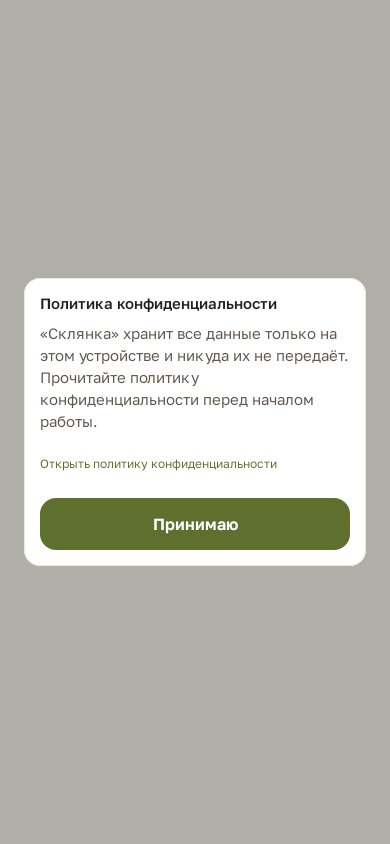
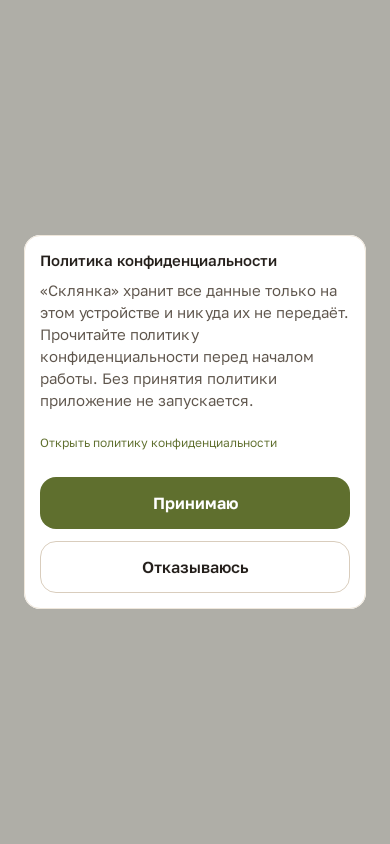
fix(SKL-161): offer an explicit decline in the privacy prompt

Changed region(s): [[0.0615, 0.2773, 0.9538, 0.7393]]

diff --git a/app/src/main/kotlin/ru/stohastika/sklyanka/startup/PrivacyConsentDialog.kt b/app/src/main/kotlin/ru/stohastika/sklyanka/startup/PrivacyConsentDialog.kt
@@ -19,7 +19,9 @@ import androidx.compose.ui.window.Dialog
 import androidx.compose.ui.window.DialogProperties
 import ru.stohastika.sklyanka.R
 import ru.stohastika.sklyanka.ui.component.AppDialogScrim
+import ru.stohastika.sklyanka.ui.component.ButtonForm
 import ru.stohastika.sklyanka.ui.component.PrimaryButton
+import ru.stohastika.sklyanka.ui.component.SecondaryButton
 import ru.stohastika.sklyanka.ui.modifier.minTouchTarget
 import ru.stohastika.sklyanka.ui.theme.SklyankaTheme
 import ru.stohastika.sklyanka.ui.token.SklyankaShapes
@@ -34,20 +36,29 @@ import ru.stohastika.sklyanka.ui.token.SklyankaType
  * у продукта нет, поэтому страницы входа, на которой это можно было бы показать, тоже нет.
  * Отсюда единственная поверхность — диалог поверх первого экрана.
  *
- * **Закрыть его можно только кнопкой «Принимаю».** Системная «Назад» и тап вне окна
- * не закрывают диалог: иначе замечание проверки «нет явного согласия» осталось бы в силе,
- * а человек мог бы проскочить предложение, не прочитав его. Затемнение и фон окна —
- * роли дизайн-системы, а не чёрная подложка прошивки (`AppDialogScrim`).
+ * **Согласие или отказ, без обхода.** Системная «Назад» и тап вне окна не закрывают
+ * диалог: иначе замечание проверки «нет явного согласия» осталось бы в силе, а человек
+ * мог бы проскочить предложение, не прочитав его. В диалоге два действия: «Принимаю»
+ * записывает факт и открывает приложение, «Отказываюсь» закрывает его, не записывая
+ * ничего (Р-90). При следующем запуске отказник снова видит диалог — отказа нет.
+ * Затемнение и фон окна — роли дизайн-системы, а не чёрная подложка прошивки
+ * (`AppDialogScrim`).
  *
- * Ссылка — не второе действие: она открывает тот же документ, что и строка настроек,
+ * Ссылка — не действие согласия: она открывает тот же документ, что и строка настроек,
  * и не снимает диалог. Адрес и браузер остаются у `app` (`PolicyPage`), поэтому диалог
  * не знает ни URL, ни `Intent`.
  *
  * @param onOpenPolicy открыть политику; диалог остаётся на экране.
  * @param onAgree человек принял политику — записать факт и снять диалог.
+ * @param onDecline человек отказался — закрыть приложение, ничего не записывая.
  */
 @Composable
-fun PrivacyConsentDialog(onOpenPolicy: () -> Unit, onAgree: () -> Unit, modifier: Modifier = Modifier) {
+fun PrivacyConsentDialog(
+    onOpenPolicy: () -> Unit,
+    onAgree: () -> Unit,
+    onDecline: () -> Unit,
+    modifier: Modifier = Modifier,
+) {
     Dialog(
         // Пустой обработчик, а не закрытие: диалог не закрывается ничем, кроме кнопки.
         onDismissRequest = { },
@@ -62,15 +73,21 @@ fun PrivacyConsentDialog(onOpenPolicy: () -> Unit, onAgree: () -> Unit, modifier
             PrivacySurface(
                 onOpenPolicy = onOpenPolicy,
                 onAgree = onAgree,
+                onDecline = onDecline,
                 modifier = modifier,
             )
         }
     }
 }
 
-/** Поверхность диалога: заголовок, честное объяснение, ссылка и единственное действие. */
+/** Поверхность диалога: заголовок, объяснение, ссылка, согласие и явный отказ. */
 @Composable
-private fun PrivacySurface(onOpenPolicy: () -> Unit, onAgree: () -> Unit, modifier: Modifier = Modifier) {
+private fun PrivacySurface(
+    onOpenPolicy: () -> Unit,
+    onAgree: () -> Unit,
+    onDecline: () -> Unit,
+    modifier: Modifier = Modifier,
+) {
     val colors = SklyankaTheme.colors
     Surface(
         modifier = modifier
@@ -113,6 +130,14 @@ private fun PrivacySurface(onOpenPolicy: () -> Unit, onAgree: () -> Unit, modifi
                     .fillMaxWidth()
                     .testTag(TAG_PRIVACY_CONSENT_AGREE),
             )
+            SecondaryButton(
+                text = stringResource(R.string.privacy_consent_decline),
+                onClick = onDecline,
+                form = ButtonForm.Screen,
+                modifier = Modifier
+                    .fillMaxWidth()
+                    .testTag(TAG_PRIVACY_CONSENT_DECLINE),
+            )
         }
     }
 }
@@ -123,3 +148,4 @@ const val TAG_PRIVACY_CONSENT_TITLE: String = "privacy_consent_title"
 const val TAG_PRIVACY_CONSENT_MESSAGE: String = "privacy_consent_message"
 const val TAG_PRIVACY_CONSENT_POLICY: String = "privacy_consent_policy"
 const val TAG_PRIVACY_CONSENT_AGREE: String = "privacy_consent_agree"
+const val TAG_PRIVACY_CONSENT_DECLINE: String = "privacy_consent_decline"

diff --git a/app/src/testDebug/kotlin/ru/stohastika/sklyanka/startup/PrivacyConsentDialogTest.kt b/app/src/testDebug/kotlin/ru/stohastika/sklyanka/startup/PrivacyConsentDialogTest.kt
@@ -29,12 +29,17 @@ class PrivacyConsentDialogTest {
     private val context = InstrumentationRegistry.getInstrumentation().targetContext
 
     @Test
-    fun theDialogNamesTheDocumentOpensItAndAcceptsIt() {
+    fun theDialogNamesTheDocumentOpensItAndOffersBothActions() {
         var opened = 0
         var agreed = 0
+        var declined = 0
         composeTestRule.setContent {
             SklyankaTheme {
-                PrivacyConsentDialog(onOpenPolicy = { opened++ }, onAgree = { agreed++ })
+                PrivacyConsentDialog(
+                    onOpenPolicy = { opened++ },
+                    onAgree = { agreed++ },
+                    onDecline = { declined++ },
+                )
             }
         }
 
@@ -42,12 +47,17 @@ class PrivacyConsentDialogTest {
         composeTestRule.onNodeWithText(context.getString(R.string.privacy_consent_title)).assertIsDisplayed()
         composeTestRule.onNodeWithText(context.getString(R.string.privacy_consent_message)).assertIsDisplayed()
         composeTestRule.onNodeWithText(context.getString(R.string.privacy_consent_agree)).assertIsDisplayed()
+        composeTestRule.onNodeWithText(context.getString(R.string.privacy_consent_decline)).assertIsDisplayed()
 
         composeTestRule.onNodeWithTag(TAG_PRIVACY_CONSENT_POLICY).performClick()
         assertEquals("the link must open the policy", 1, opened)
         assertEquals("the link must not accept the policy", 0, agreed)
 
+        composeTestRule.onNodeWithTag(TAG_PRIVACY_CONSENT_DECLINE).performClick()
+        assertEquals("decline must be a separate action", 1, declined)
+        assertEquals("decline must not accept the policy", 0, agreed)
+
         composeTestRule.onNodeWithTag(TAG_PRIVACY_CONSENT_AGREE).performClick()
-        assertEquals("the only action accepts the policy", 1, agreed)
+        assertEquals("accept is a separate action", 1, agreed)
     }
 }

diff --git a/app/src/androidTest/kotlin/ru/stohastika/sklyanka/screen/FirstLaunchDeviceTest.kt b/app/src/androidTest/kotlin/ru/stohastika/sklyanka/screen/FirstLaunchDeviceTest.kt
@@ -3,8 +3,10 @@ package ru.stohastika.sklyanka.screen
 import androidx.compose.ui.test.assertIsDisplayed
 import androidx.compose.ui.test.isDialog
 import dagger.hilt.android.testing.HiltAndroidTest
+import org.junit.Assert.assertFalse
 import org.junit.Assert.assertTrue
 import org.junit.Test
+import ru.stohastika.sklyanka.MainActivity
 import ru.stohastika.sklyanka.feature.onboarding.TAG_PERMISSIONS_SCREEN
 import ru.stohastika.sklyanka.feature.onboarding.TAG_SKIP
 import ru.stohastika.sklyanka.feature.today.TAG_TODAY_SCREEN
@@ -12,6 +14,7 @@ import ru.stohastika.sklyanka.screen.support.DeviceActivities
 import ru.stohastika.sklyanka.screen.support.DeviceTestSeed
 import ru.stohastika.sklyanka.startup.TAG_PRIVACY_CONSENT
 import ru.stohastika.sklyanka.startup.TAG_PRIVACY_CONSENT_AGREE
+import ru.stohastika.sklyanka.startup.TAG_PRIVACY_CONSENT_DECLINE
 
 /**
  * N — первый запуск на настоящем устройстве (SKL-97, TDD §8.2; ревизия SKL-100).
@@ -53,5 +56,20 @@ class FirstLaunchDeviceTest : DeviceScreenTest() {
         launchApp()
         waitForTag(TAG_TODAY_SCREEN, ROOT_TIMEOUT_MS).assertIsDisplayed()
         assertTrue("the policy dialog must not return", !exists(TAG_PRIVACY_CONSENT))
+    }
+
+    /** Отказ закрывает приложение и ничего не запоминает (Р-90). */
+    @Test
+    fun thePersonCanDeclineAndTheAppCloses() {
+        launchApp()
+
+        waitForTag(TAG_PRIVACY_CONSENT, ROOT_TIMEOUT_MS).assertIsDisplayed()
+        click(TAG_PRIVACY_CONSENT_DECLINE)
+        awaitScreenClosed(MainActivity::class.java)
+
+        assertFalse(
+            "decline must not be stored",
+            DeviceTestSeed.privacyAcknowledgedFlag(targetContext),
+        )
     }
 }

diff --git a/app/src/main/kotlin/ru/stohastika/sklyanka/MainActivity.kt b/app/src/main/kotlin/ru/stohastika/sklyanka/MainActivity.kt
@@ -407,6 +407,9 @@ class MainActivity : ComponentActivity() {
                         onPrivacyAgree = {
                             acknowledgePrivacy { startupFlags = startupFlags.copy(privacyConsentUnseen = false) }
                         },
+                        // Отказ закрывает приложение и ничего не записывает: при следующем
+                        // запуске диалог покажется снова (Р-90).
+                        onPrivacyDecline = { finishAndRemoveTask() },
                         theme = accentTheme ?: AccentTheme.DEFAULT,
                         dark = interfaceDark,
                     )
@@ -448,6 +451,7 @@ class MainActivity : ComponentActivity() {
         addMedicationRequested: Boolean,
         onOnboardingDone: () -> Unit,
         onPrivacyAgree: () -> Unit,
+        onPrivacyDecline: () -> Unit,
         /** Акцентная тема (§2.5) и тёмная среда интерфейса (§9) — для обёртки профиля. */
         theme: AccentTheme,
         dark: Boolean,
@@ -457,6 +461,7 @@ class MainActivity : ComponentActivity() {
                 // Адрес и браузер остаются у `app` (`PolicyPage`), диалог их не знает.
                 onOpenPolicy = { PolicyPage.open(this@MainActivity) },
                 onAgree = onPrivacyAgree,
+                onDecline = onPrivacyDecline,
             )
         }
         when {

diff --git a/build-logic/convention/src/main/kotlin/ru/stohastika/sklyanka/gradle/AndroidApplicationConventionPlugin.kt b/build-logic/convention/src/main/kotlin/ru/stohastika/sklyanka/gradle/AndroidApplicationConventionPlugin.kt
@@ -21,9 +21,9 @@ class AndroidApplicationConventionPlugin : Plugin<Project> {
                 minSdk = ProjectDefaults.MIN_SDK
                 targetSdk = ProjectDefaults.TARGET_SDK
                 // Версии по Р-26: versionCode монотонный (+1 на загрузку в магазин),
-                // versionName — calver ГГГГ.ММ месяца выпуска.
-                versionCode = 2
-                versionName = "2026.10.1"
+                // versionName — calver ГГГГ.ММ[.N], N — повторный выпуск в том же месяце.
+                versionCode = 3
+                versionName = "2026.10.2"
                 testInstrumentationRunner = ProjectDefaults.ANDROID_TEST_RUNNER
                 // Объявленные языки (НФТ-43, ПМ-14) записаны здесь, а не только
                 // в строках: иначе в артефакт едут чужие переводы библиотек, а система

diff --git a/app/src/testDebug/kotlin/ru/stohastika/sklyanka/startup/PrivacyConsentSnapshotTest.kt b/app/src/testDebug/kotlin/ru/stohastika/sklyanka/startup/PrivacyConsentSnapshotTest.kt
@@ -35,7 +35,7 @@ class PrivacyConsentSnapshotTest {
         ) {
             SklyankaTheme {
                 Box(modifier = Modifier.fillMaxSize().background(SklyankaTheme.colors.background)) {
-                    PrivacyConsentDialog(onOpenPolicy = {}, onAgree = {})
+                    PrivacyConsentDialog(onOpenPolicy = {}, onAgree = {}, onDecline = {})
                 }
             }
         }
